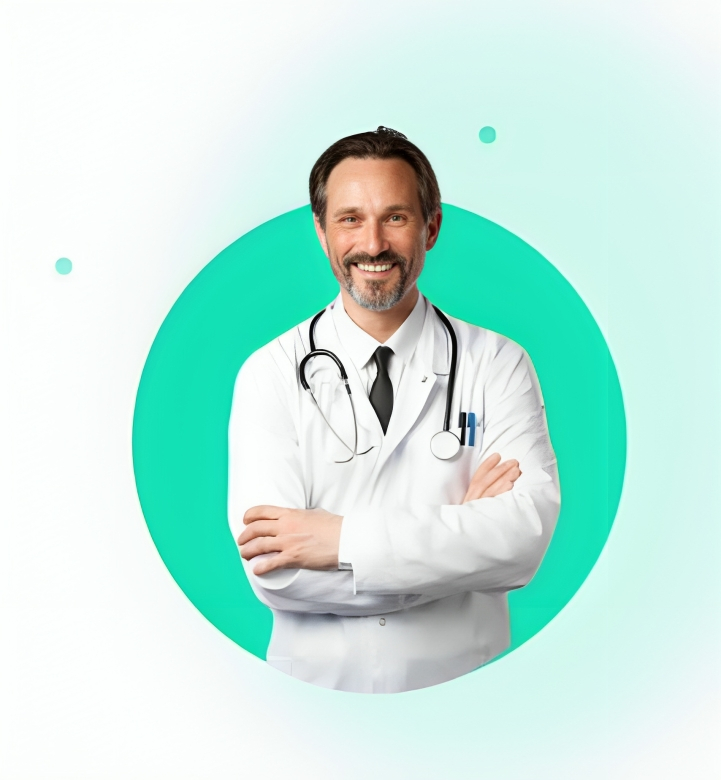
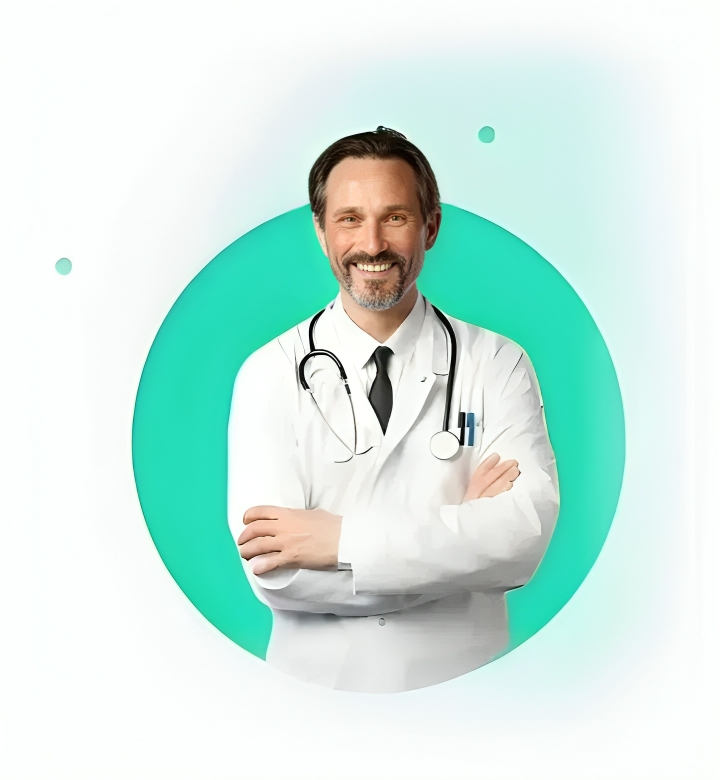
header hover added and corona content section added

diff --git a/style/style.css b/style/style.css
@@ -2,6 +2,7 @@
     font-family: Nunito-Regular;
     src: url(../fonts/Nunito-Regular.ttf);
 }
+
 * {
     margin: 0;
     padding: 0;
@@ -11,10 +12,11 @@
 
 header {
     margin: 30px 60px;
+    color: #06105e;
 }
 
 header h1 {
-    font-size: 1.2em;
+    font-size: 1.3em;
     margin-right: 250px;
 }
 
@@ -31,16 +33,94 @@ header ul li {
     padding: 0 20px;
     text-align: center;
 }
-.list-items{
-margin: 0 0 0 30px;
+
+header ul li:hover {
+    color: #06E6B2;
+    cursor: pointer;
+    transition: ease 0.3s;
 }
-.first-button{
-    padding:7px 25px;
+
+.list-items {
+    margin: 0 0 0 30px;
+}
+
+.first-button {
+    padding: 7px 25px;
     border: none;
     border-radius: 20px;
-    background-color:#06E6B2;
+    background-color: #06E6B2;
     color: white;
     font-size: 15px;
     margin-left: 250px;
     margin-top: -10px;
+}
+
+.first-button:hover {
+    background-color: white;
+    color: #06E6B2;
+    border: solid 1px #06E6B2;
+    transition: ease-in 0.3s;
+}
+
+.corona-content {
+    margin: 10px 55px;
+    display: flex;
+    flex-direction: row;
+}
+
+.corona-text {
+    margin-top: 110px;
+    margin-right: 180px;
+}
+
+.corona-content span {
+    color: #06E6B2;
+    font-size: 1.1em;
+}
+
+.corona-content h1 {
+    font-size: 2.7em;
+    margin-bottom: 18px;
+    color: #06105e;
+}
+
+.corona-content img {
+    width: 480px;
+    height: 480px;
+}
+
+.corona-content p {
+    color: #777;
+    margin-bottom: 40px;
+    line-height: 2;
+}
+
+.service-button {
+    border-radius: 20px;
+    border: solid #06E6B2 2px;
+    background-color: #06E6B2;
+    color: white;
+    padding: 9px 24px;
+}
+
+.service-button:hover {
+    background-color: white;
+    color: #06E6B2;
+    transition: ease 0.3s;
+    cursor: pointer;
+}
+
+.support-button {
+    border-radius: 20px;
+    border: solid #06E6B2 2px;
+    background-color: white;
+    color: #06E6B2;
+    padding: 9px 35px;
+    margin-left: 22px;
+}
+.support-button:hover {
+    color: white;
+    background-color: #06E6B2;
+    transition:  ease 0.3s;
+    cursor: pointer;
 }

diff --git a/index.html b/index.html
@@ -23,6 +23,18 @@
         </div>
     </header>
     <main>
+        <section class="corona-content">
+            <div class="corona-text">
+            <h1><span>corona </span>virus statistics</h1>
+            <p>Lorem ipsum dolor sit amet consectetur adipisicing elit. Earum odit voluptate, repellendus explicabo eius maiores iste.
+            </p>
+            <button class="service-button">Our service</button>
+            <button class="support-button">Support</button>
+        </div>
+        <div class="corona-image">
+            <img src="images/doctor.jpg" alt="doctor image">
+        </div>
+        </section>
     </main>
     <footer></footer>
 </body>
